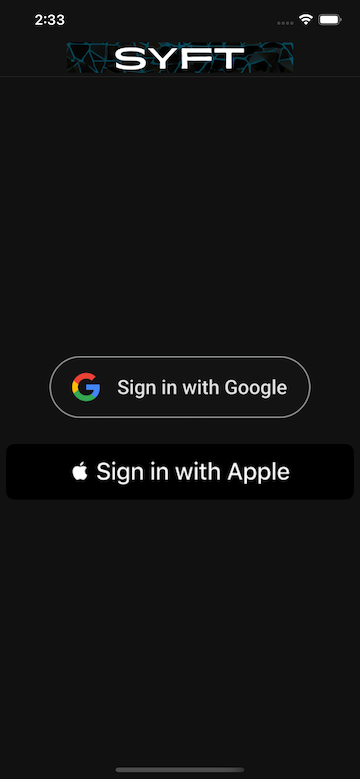
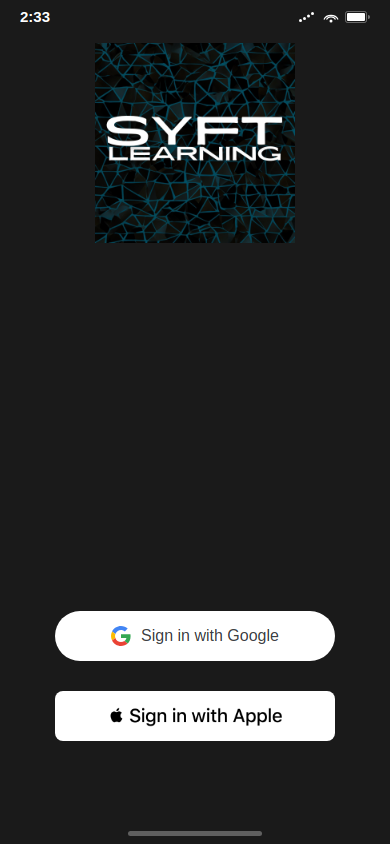
Fix Apple sign-in button dark mode border artifact
Use single white button image for both modes instead of separate
dark/light PNGs. The dark mode image had a visible rounded rectangle
border that looked bad on dark backgrounds.

diff --git a/front/components/AppleSignInButton.tsx b/front/components/AppleSignInButton.tsx
@@ -1,28 +1,20 @@
 import React from 'react';
-import { Pressable, StyleSheet, Image, useColorScheme } from 'react-native';
-import { useThemeColor } from '@/hooks/useThemeColor';
+import { Pressable, StyleSheet, Image } from 'react-native';
 
 type AppleSignInButtonProps = {
   onPress: () => void;
 }
 
 export const AppleSignInButton = ({ onPress }: AppleSignInButtonProps) => {
-  const colorScheme = useColorScheme();
-  const imageSource = colorScheme === "dark" ? require("../assets/images/apple-sign-in-dark.png") : require("../assets/images/apple-sign-in.png");
-  const cardBackgroundColor = useThemeColor({}, "cardBackground");
-  const borderColor = useThemeColor({}, "border");
-
   return (
-    <Pressable testID="apple-sign-in-button" onPress={onPress} 
+    <Pressable testID="apple-sign-in-button" onPress={onPress}
     style={({ pressed }) => [
       styles.appleButton,
-      { backgroundColor: cardBackgroundColor, borderColor },
       pressed && styles.appleButtonPressed,
     ]}>
       <Image
-        source={imageSource}
+        source={require("../assets/images/apple-sign-in.png")}
         style={styles.logo}
-        resizeMode="contain"
       />
     </Pressable>
   );
@@ -30,21 +22,13 @@ export const AppleSignInButton = ({ onPress }: AppleSignInButtonProps) => {
 
 const styles = StyleSheet.create({
   appleButton: {
-    width: "100%",
-    height: 50,
     flexDirection: "row",
     alignItems: "center",
-    justifyContent: "center",
-    borderWidth: 1,
-    borderRadius: 8,
-    padding: 8,
   },
   appleButtonPressed: {
     opacity: 0.8,
   },
   logo: {
-    width: "100%",
-    height: "100%",
   },
 });
 
